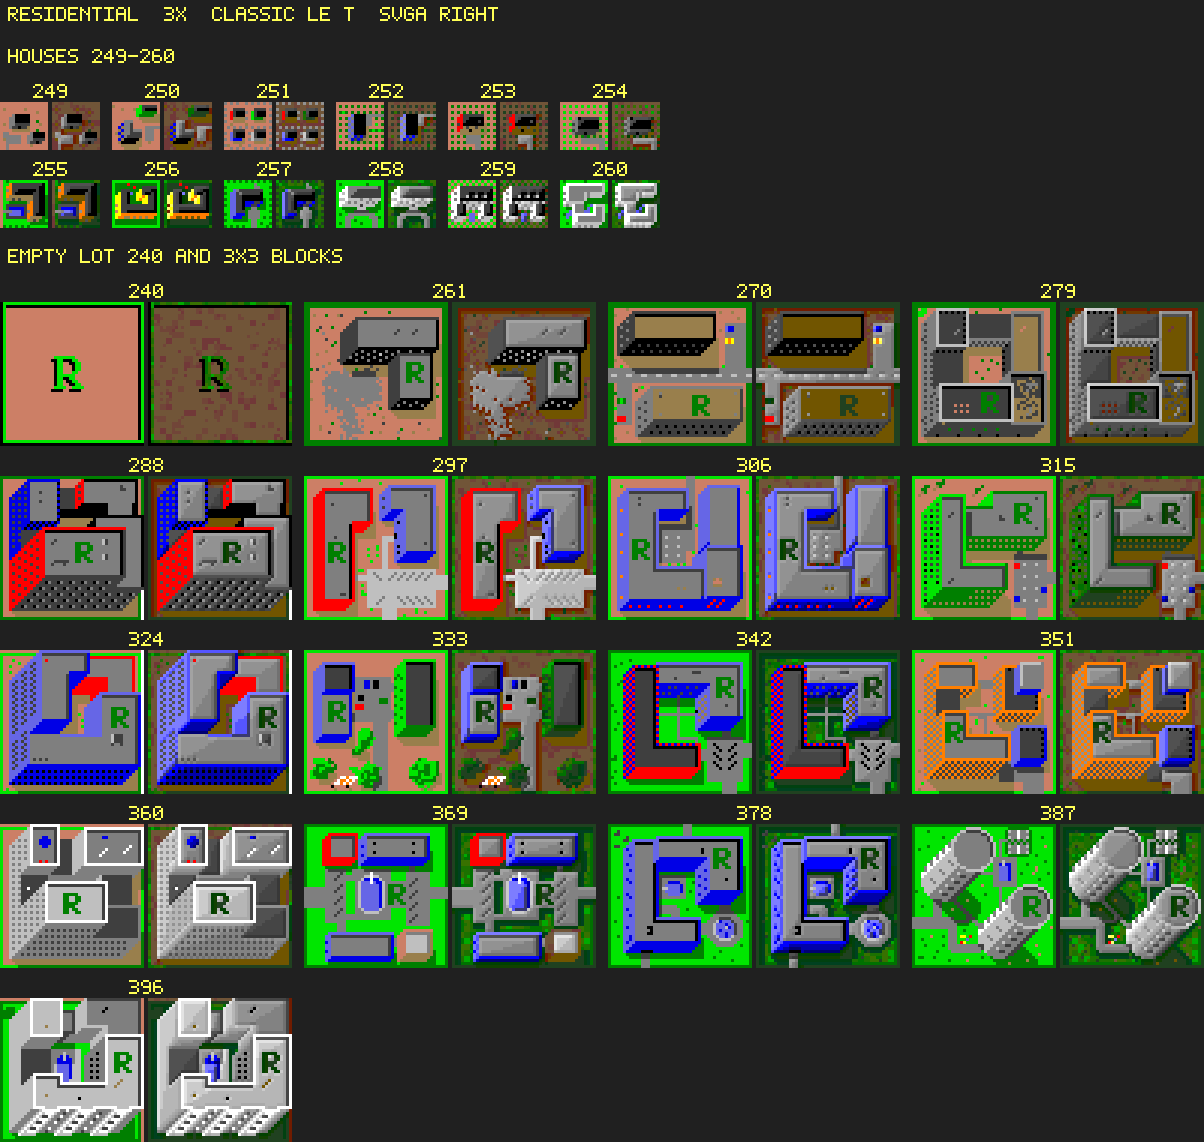
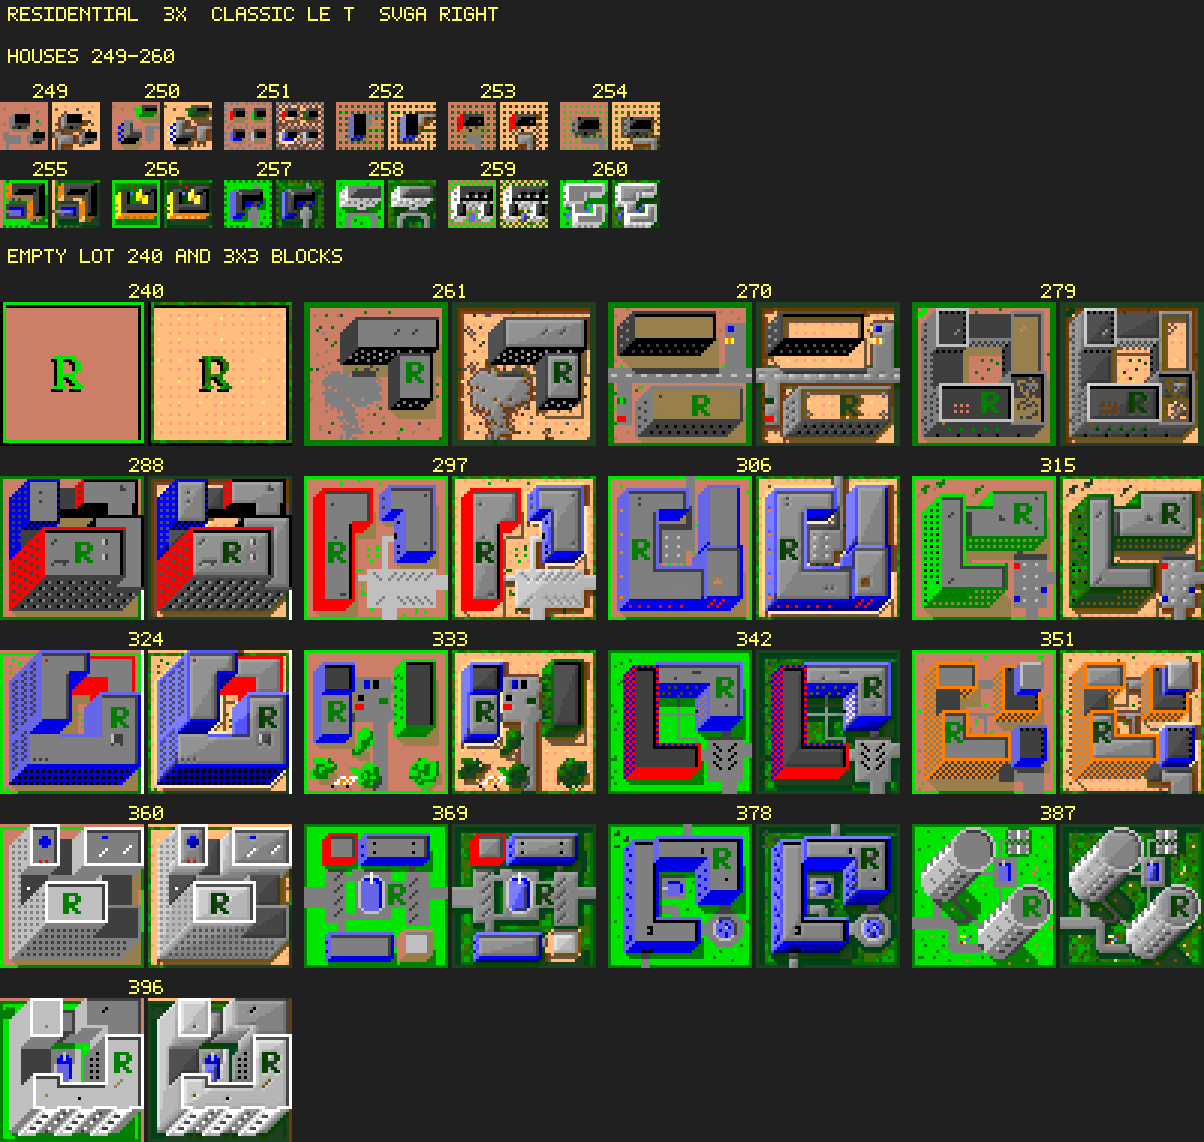
Repaint batch-1 ground as light VGA sand with a sparse dot.
The dark brown read as leftover salmon in yards and under trees. Classic tan and soil fills now share one light stipple, with darker tan only on the south-east shadow and the one-pixel soil edge.

diff --git a/art/svga/make_atlas.py b/art/svga/make_atlas.py
@@ -49,13 +49,20 @@ SRC_TAN = (204, 127, 102)
 SRC_DTAN = (153, 127, 76)
 SRC_ORANGE = (255, 127, 0)
 
-# Approved pass-6 dirt and pass-4 grass. The last two steps are the cast shadow.
+# SNES-style sand. VGA has no desaturated khaki near (195, 170, 135):
+# the nearest entry is roof grey (170, 170, 170), distance 43, which would
+# disappear into buildings. (255, 190, 125) is the nearest warm non-pink,
+# distance 64.0. The dot is one step darker in that same hue so the stipple
+# stays low-contrast. The last two steps are the building shadow.
+DIRT_LIGHT = (255, 223, 125)
+DIRT_BASE = (255, 190, 125)
+DIRT_DOT = (255, 158, 125)
 DIRT_RAMP = (
-    (113, 85, 56),
+    DIRT_LIGHT,
+    DIRT_BASE,
+    DIRT_DOT,
     (113, 69, 56),
-    (113, 56, 56),
     (113, 56, 0),
-    (113, 28, 0),
 )
 GRASS_RAMP = (
     (0, 170, 0),
@@ -112,7 +119,13 @@ WATER_RAMP = (
     (0, 48, 65),
     (0, 32, 65),
 )
-SOIL = (113, 85, 0)
+# Soil is the other classic ground colour. Its open field uses the sand
+# stipple (those RGB values belong to tan; a soil pixel only keeps one where
+# it does not touch tan). The rim and the shadow are soil's own darker steps.
+SOIL_RIM = (113, 85, 56)
+SOIL_SAND = (255, 235, 182)
+SOIL_CONTACT = (113, 85, 0)
+SOIL_RAMP = (SOIL_RIM, SOIL_SAND, SOIL_CONTACT)
 DEEP = (0, 0, 170)
 SPECK = (56, 56, 56)
 STONE = (130, 130, 130)
@@ -121,7 +134,9 @@ LEAF = (162, 162, 162)
 ORANGE = (255, 125, 0)
 
 _DIRT_WEIGHTS = (0, 0, 0, 0, 0, 0, 1, 2)
-_GRASS_WEIGHTS = (0, 1, 1, 1, 2, 2, 2, 3, 3)
+# Same deep-green hues. More of the light step, so lawns are not a dark hole
+# in the new sand. 2/9 (0, 170, 0), 3/9 (56, 113, 0), 3/9 (28, 113, 0), 1/9 (0, 113, 0).
+_GRASS_WEIGHTS = (0, 0, 1, 1, 1, 2, 2, 2, 3)
 _WATER_WEIGHTS = _DIRT_WEIGHTS
 _MIN_CAST = 8
 _ORTHO = ((0, -1), (0, 1), (-1, 0), (1, 0))
@@ -208,20 +223,20 @@ MATS: dict[str, dict[tuple[int, int, int], Material]] = {
         SRC_LBLUE: WATER,
         SRC_BLUE: _flat(DEEP),
         SRC_TAN: DIRT,
-        SRC_DTAN: _flat(SOIL),
+        SRC_DTAN: _mat(SOIL_RAMP, "soil"),
         SRC_GREY: _flat(STONE),
         SRC_DGREY: _flat(ROCK),
     },
     "tree": {
         SRC_TAN: DIRT,
-        SRC_DTAN: _flat(SOIL),
+        SRC_DTAN: _mat(SOIL_RAMP, "soil"),
         SRC_GREEN: GRASS,
         SRC_DGREEN: HEDGE,
         SRC_GREY: _flat(LEAF),
     },
     "building": {
         SRC_TAN: DIRT,
-        SRC_DTAN: _flat(SOIL),
+        SRC_DTAN: _mat(SOIL_RAMP, "soil"),
         SRC_GREEN: GRASS,
         SRC_DGREEN: HEDGE,
         SRC_GREY: CONCRETE,
@@ -291,6 +306,27 @@ def _assert_hash_aperiodic() -> None:
         raise SystemExit(
             f"ground clusters still tile at 16px (match rate {clustered / cluster_total:.3f})"
         )
+    dots = 0
+    repeated = 0
+    for y in range(64):
+        for x in range(64):
+            if _dirt_tone(x, y) != 2:
+                continue
+            dots += 1
+            repeated += _dirt_tone(x + 16, y) == 2
+            repeated += _dirt_tone(x, y + 16) == 2
+    if dots == 0 or repeated / (dots * 2) > 0.2:
+        raise SystemExit(f"sand dots still repeat every 16px ({repeated} of {dots * 2})")
+    touching = 0
+    for y in range(40):
+        for x in range(40):
+            if _dirt_tone(x, y) != 2:
+                continue
+            for dx, dy in _ORTHO:
+                if _dirt_tone(x + dx, y + dy) == 2:
+                    touching += 1
+    if touching:
+        raise SystemExit(f"sand dots touch their neighbours ({touching})")
 
 
 def _in(x: int, y: int, w: int, h: int) -> bool:
@@ -416,19 +452,53 @@ def _grass_rim(src, x: int, y: int, w: int, h: int, counts) -> bool:
     return False
 
 
-def _dirt_rim(src, x: int, y: int, w: int, h: int) -> bool:
+def _touches_water(src, x: int, y: int, w: int, h: int) -> bool:
+    """Ground pixel against open water, including through one black outline."""
     for dx, dy in _ORTHO:
         nx, ny = x + dx, y + dy
         if not _in(nx, ny, w, h):
             continue
         neighbour = src[nx, ny]
-        if neighbour == SRC_DTAN:
+        if neighbour in (SRC_LBLUE, SRC_BLUE):
             return True
         if neighbour == BLACK:
             fx, fy = nx + dx, ny + dy
-            if _in(fx, fy, w, h) and src[fx, fy] == SRC_DTAN:
+            if _in(fx, fy, w, h) and src[fx, fy] in (SRC_LBLUE, SRC_BLUE):
                 return True
     return False
+
+
+def _dirt_tone(x: int, y: int) -> int:
+    """0 rare light, 1 flat base, 2 isolated darker dot.
+
+    The lattices are in world pixels. Their periods (3 and 7) are not 16, so
+    a tile edge does not restart the pattern.
+    """
+    if (x % 3) == 1 and (y % 3) == 1 and (_hash(x // 3, y // 3) % 5) != 0:
+        return 2
+    if (x % 7) == 3 and (y % 7) == 5:
+        return 0
+    return 1
+
+
+def _touches_ground(src, x: int, y: int, w: int, h: int, colours: frozenset) -> bool:
+    for dx, dy in _ORTHO:
+        nx, ny = x + dx, y + dy
+        if not _in(nx, ny, w, h):
+            continue
+        neighbour = src[nx, ny]
+        if neighbour in colours:
+            return True
+        if neighbour == BLACK:
+            fx, fy = nx + dx, ny + dy
+            if _in(fx, fy, w, h) and src[fx, fy] in colours:
+                return True
+    return False
+
+
+def _dirt_rim(src, x: int, y: int, w: int, h: int) -> bool:
+    """1px darker tan where sand meets concrete. Soil carries its own rim."""
+    return _touches_ground(src, x, y, w, h, _PAVEMENT)
 
 
 def _is_land(colour: tuple[int, int, int]) -> bool:
@@ -556,6 +626,21 @@ def paint(original: Image.Image, kinds: list[list[str]]) -> Image.Image:
             if mat.role == "flat":
                 dst[x, y] = ramp[0]
                 continue
+            if mat.role == "soil":
+                # Open soil is the same sand as tan. Only the pixels that touch
+                # tan, concrete, or water change, so a soil fill cannot stay
+                # the old dark brown and cannot share an edge colour with tan.
+                strength = _shadow_strength(src, x, y, w, h, counts)
+                if _touches_water(src, x, y, w, h):
+                    chosen = SOIL_SAND
+                elif strength >= 2:
+                    chosen = SOIL_CONTACT
+                elif strength == 1 or _touches_ground(src, x, y, w, h, frozenset({SRC_TAN}) | _PAVEMENT):
+                    chosen = SOIL_RIM
+                else:
+                    chosen = DIRT_RAMP[_dirt_tone(x, y)]
+                dst[x, y] = chosen
+                continue
             strength = _shadow_strength(src, x, y, w, h, counts)
             shadowed = _apply_shadow(ramp, strength) if mat.role in ("grass", "dirt", "hedge") else None
             if mat.role == "hedge":
@@ -568,14 +653,20 @@ def paint(original: Image.Image, kinds: list[list[str]]) -> Image.Image:
                     chosen = shadowed
                 dst[x, y] = chosen
                 continue
-            if mat.role in ("grass", "dirt"):
+            if mat.role == "dirt":
+                chosen = ramp[_dirt_tone(x, y)]
+                if _touches_water(src, x, y, w, h):
+                    chosen = ramp[0]
+                elif _dirt_rim(src, x, y, w, h):
+                    chosen = ramp[-2]
+                if shadowed is not None:
+                    chosen = shadowed
+                dst[x, y] = chosen
+                continue
+            if mat.role == "grass":
                 body = ramp[:-2]
-                weights = _DIRT_WEIGHTS if mat.role == "dirt" else _GRASS_WEIGHTS
-                salt = 0 if mat.role == "dirt" else 1
-                idx = _dither_index(x, y, salt, weights)
-                if mat.role == "dirt" and _dirt_rim(src, x, y, w, h):
-                    idx = len(body) - 1
-                if mat.role == "grass" and _grass_rim(src, x, y, w, h, counts):
+                idx = _dither_index(x, y, 1, _GRASS_WEIGHTS)
+                if _grass_rim(src, x, y, w, h, counts):
                     idx = len(body) - 1
                 chosen = body[min(idx, len(body) - 1)]
                 if shadowed is not None:
@@ -866,6 +957,15 @@ def main() -> int:
         "held back: tiles 38-39 (unused), rubble, flood, fire, roads, rails, power,",
         "commercial, industrial, hospital, church, civic buildings, animations, the menu toggle",
         f"palette unique RGB triples: {len(palette)}",
+        "sand base (255, 190, 125): distance 64.0 from (195, 170, 135).",
+        "nearest palette colour is roof grey (170, 170, 170) at 43.0, not used.",
+        "nearest warm colour (255, 158, 125) is 62.0 but reads salmon, so it is only the dot.",
+        "dot target (150, 120, 90): nearest is olive (113, 113, 81) at 38.7.",
+        "that olive is far darker than the sand, so the dot is (255, 158, 125), distance 117.0,",
+        "one VGA step below the base. Rare light is (255, 223, 125).",
+        "shadows (113, 69, 56) and (113, 56, 0). Soil rim (113, 85, 56),",
+        "soil shore (255, 235, 182), soil contact (113, 85, 0).",
+        "grass hues unchanged; weights now 2/9 of (0, 170, 0) so lawns sit nearer the light sand.",
         "",
     ]
     failed = False
@@ -919,15 +1019,46 @@ def main() -> int:
 
     dirt = paint(crop_tile(atlas, 0), [["ground"]])
     dirt_counts = _histogram(dirt)
-    tan_pixels = sum(dirt_counts.get(rgb, 0) for rgb in DIRT_RAMP[:3])
-    if tan_pixels == 0 or dirt_counts.get(DIRT_RAMP[0], 0) * 2 < tan_pixels:
-        lines.append(f"FAIL dirt base is not the majority warm brown: {dirt_counts}")
+    base_n = dirt_counts.get(DIRT_BASE, 0)
+    if base_n < 180:
+        lines.append(f"FAIL sand base is not the flat field: {dirt_counts}")
         failed = True
-    forbidden = {(85, 255, 85), (113, 113, 56), (113, 97, 56), (170, 85, 0), (255, 127, 0)}
+    dot_n = dirt_counts.get(DIRT_DOT, 0)
+    if dot_n < 8 or dot_n > 40:
+        lines.append(f"FAIL sand dots are not a sparse stipple ({dot_n})")
+        failed = True
+    forbidden = {
+        (85, 255, 85),
+        (113, 113, 56),
+        (113, 97, 56),
+        (113, 56, 56),
+        (113, 28, 0),
+        (170, 85, 0),
+        (255, 127, 0),
+        SRC_TAN,
+        SRC_DTAN,
+    }
     for image, name in ((svga_scene, "neighbourhood"), (dirt, "dirt")):
         present = forbidden & set(_histogram(image))
         if present:
             lines.append(f"FAIL {name} contains forbidden colours {sorted(present)}")
+            failed = True
+    for base in (261, 279, 315, 351):
+        block = next(image for origin, _classic, image in painted_blocks if origin == base)
+        present = forbidden & set(_histogram(block))
+        if present:
+            lines.append(f"FAIL block {base} still has classic or reddish ground {sorted(present)}")
+            failed = True
+        classic = next(image for origin, image, _svga in painted_blocks if origin == base)
+        cpx = classic.load()
+        spx = block.load()
+        missed = 0
+        for y in range(classic.height):
+            for x in range(classic.width):
+                if cpx[x, y] in (SRC_TAN, SRC_DTAN) and spx[x, y] in (SRC_TAN, SRC_DTAN):
+                    missed += 1
+        if missed:
+            lines.append(f"FAIL block {base} left {missed} classic ground pixels")
             failed = True
 
     # Previews. Each pair is classic on the left and SVGA on the right.
